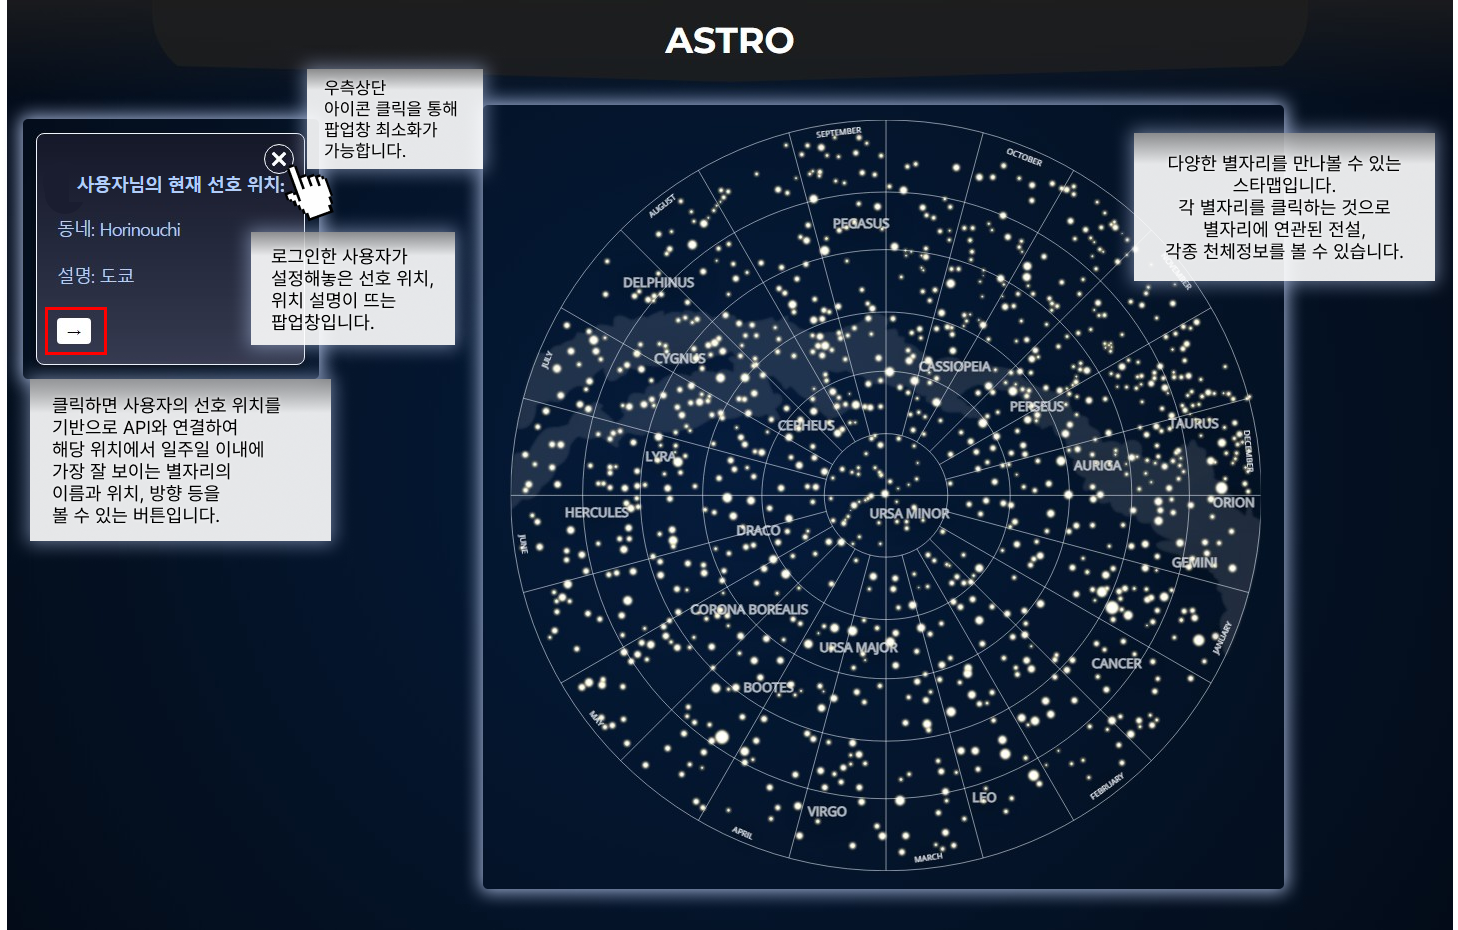
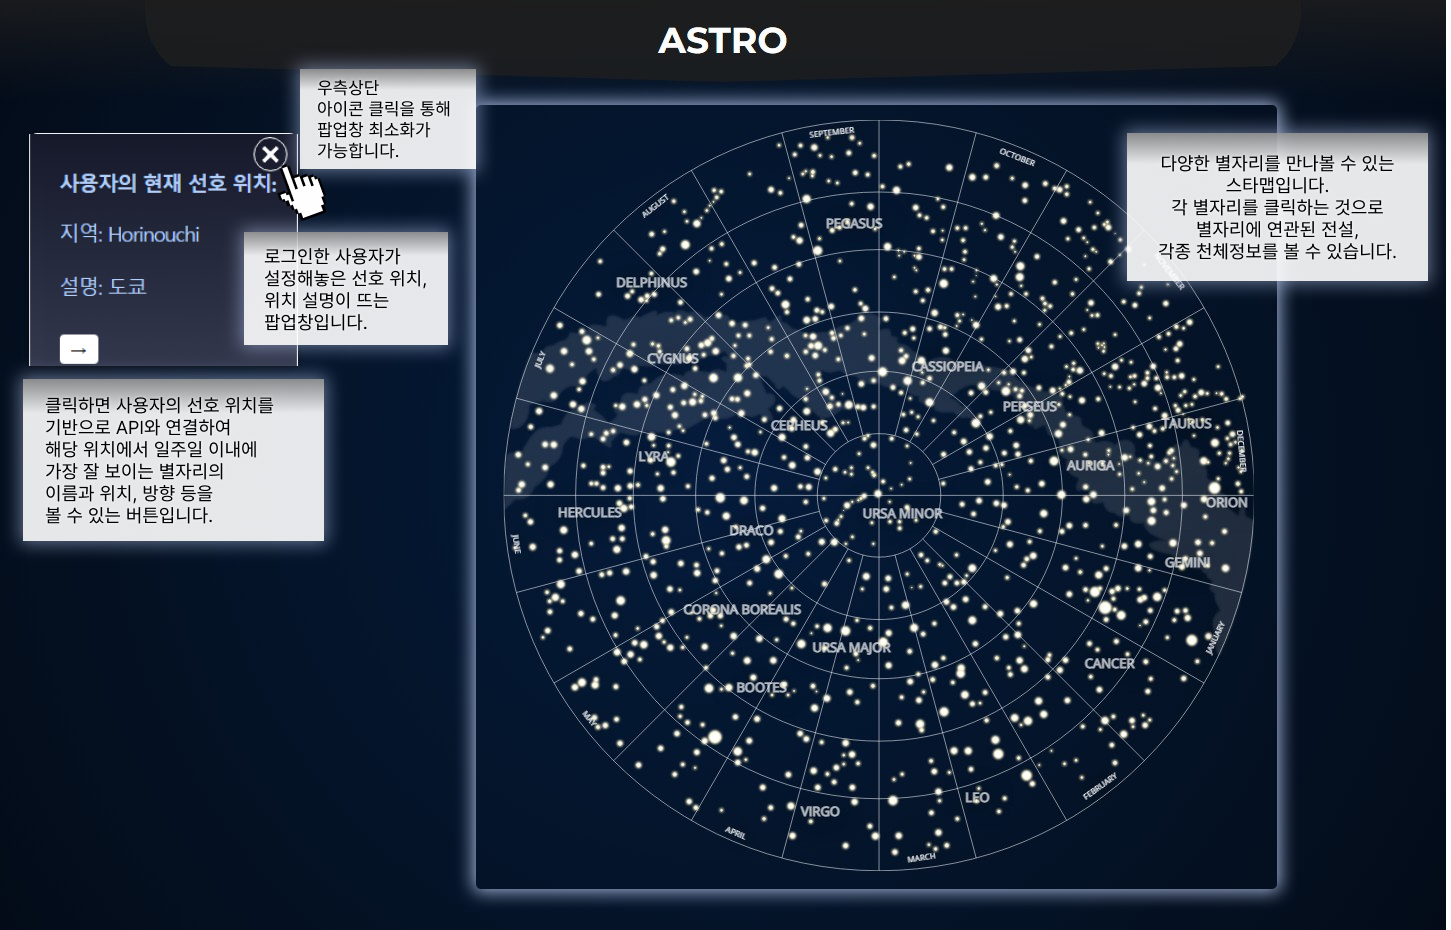
StarMap 페이지 설명(도움말아이콘) 추가

diff --git a/starinfo-app/src/components/StarMap/HelpIcon.jsx b/starinfo-app/src/components/StarMap/HelpIcon.jsx
@@ -1,17 +1,89 @@
-import React from 'react';
+import React, { useState, useEffect } from 'react';
 import './css/HelpIcon.css';
 import questionMarkIcon from '../layout/asset/question_mark_icon.png';
+import introImage1 from '../layout/asset/StarMap_Intro_1.png';
+import introImage2 from '../layout/asset/StarMap_Intro_2.png';
 
-const HelpIcon = ({ onClick }) => {
+const HelpIcon = () => {
+    const [showIntro, setShowIntro] = useState(false); // Intro 이미지 표시 상태
+    const [currentImageIndex, setCurrentImageIndex] = useState(0); // 현재 표시 중인 이미지의 인덱스
+
+    const images = [introImage1, introImage2]; // 이미지 배열
+
+    const handleHelpClick = () => {
+        setShowIntro(true); // 도움말 아이콘 클릭 시 Intro 이미지 표시
+    };
+
+    const handleCloseIntro = () => {
+        setShowIntro(false); // Intro 이미지 닫기
+    };
+
+    const handleNextImage = (event) => {
+        if (event) event.stopPropagation(); // 이벤트 버블링 방지
+        setCurrentImageIndex((prevIndex) => (prevIndex + 1) % images.length); // 다음 이미지로 전환
+    };
+
+    const handlePrevImage = (event) => {
+        if (event) event.stopPropagation(); // 이벤트 버블링 방지
+        setCurrentImageIndex(
+            (prevIndex) => (prevIndex - 1 + images.length) % images.length // 이전 이미지로 전환
+        );
+    };
+
+    useEffect(() => {
+        const handleKeyDown = (event) => {
+            if (showIntro) {
+                if (event.key === 'ArrowRight') {
+                    handleNextImage();
+                } else if (event.key === 'ArrowLeft') {
+                    handlePrevImage();
+                }
+            }
+        };
+
+        // 키보드 이벤트 리스너 추가
+        window.addEventListener('keydown', handleKeyDown);
+
+        // 컴포넌트 언마운트 시 리스너 제거
+        return () => {
+            window.removeEventListener('keydown', handleKeyDown);
+        };
+    }, [showIntro]); // `showIntro` 상태 변경 시 이벤트 리스너 등록/제거
+
     return (
-        <div className="help-icon-container" onClick={onClick}
-        title="페이지 도움말">
-            <img
-                src={questionMarkIcon}
-                alt="Help Icon"
-                className="help-icon-image"
-            />
-        </div>
+        <>
+            {/* 도움말 아이콘 */}
+            <div
+                className="help-icon-container"
+                onClick={handleHelpClick}
+                title="페이지 도움말"
+            >
+                <img
+                    src={questionMarkIcon}
+                    alt="Help Icon"
+                    className="help-icon-image"
+                />
+            </div>
+
+            {/* 도움말 이미지 오버레이 */}
+            {showIntro && (
+                <div className="intro-overlay" onClick={handleCloseIntro}>
+                    <div className="intro-container">
+                        <button className="arrow prev" onClick={handlePrevImage}>
+                            &#8592; {/* 이전 화살표 */}
+                        </button>
+                        <img
+                            src={images[currentImageIndex]}
+                            alt={`Intro Image ${currentImageIndex + 1}`}
+                            className="intro-image"
+                        />
+                        <button className="arrow next" onClick={handleNextImage}>
+                            &#8594; {/* 다음 화살표 */}
+                        </button>
+                    </div>
+                </div>
+            )}
+        </>
     );
 };
 

diff --git a/starinfo-app/src/components/StarMap/css/HelpIcon.css b/starinfo-app/src/components/StarMap/css/HelpIcon.css
@@ -1,6 +1,7 @@
+/* HelpIcon의 기존 스타일 */
 .help-icon-container {
     position: absolute;
-    top: 80px; /* Adjusted to be below the header */
+    top: 80px;
     right: 20px;
     width: 40px;
     height: 40px;
@@ -21,6 +22,69 @@
 }
 
 .help-icon-image {
-    width: 60%; /* Scale the icon size within the circle */
+    width: 60%;
     height: auto;
+}
+
+/* Intro 이미지 오버레이 */
+.intro-overlay {
+    position: fixed;
+    top: 0;
+    left: 0;
+    width: 100%;
+    height: 100%;
+    background-color: rgba(0, 0, 0, 0.7); /* 어두운 반투명 배경 */
+    display: flex;
+    justify-content: center;
+    align-items: center;
+    z-index: 10000; /* 최상단 */
+}
+
+/* Intro 이미지 컨테이너 */
+.intro-container {
+    position: relative;
+    box-shadow: 0px 8px 20px rgba(0, 0, 0, 0.2); /* 그림자 효과 */
+    border-radius: 10px; /* 부드러운 모서리 */
+    overflow: hidden; /* 이미지 크기를 컨테이너에 맞춤 */
+}
+
+/* Intro 이미지 */
+.intro-image {
+    max-width: 75%;
+    max-height: 75%;
+    display: block;
+    margin: auto;
+    border-radius: 8px; /* 이미지 모서리 부드럽게 */
+    box-shadow: 0 4px 20px rgba(255, 255, 255, 0.2), 0 0 30px rgba(255, 255, 255, 0.4);
+    transition: opacity 0.3s ease-in-out; /* 부드러운 전환 효과 */
+    cursor: pointer; /* 클릭 가능 */
+
+}
+
+/* 화살표 버튼 스타일 */
+.arrow {
+    position: absolute;
+    top: 50%;
+    transform: translateY(-50%);
+    background: none;
+    border: none;
+    color: white;
+    font-size: 3rem;
+    font-weight: bold;
+    cursor: pointer;
+    z-index: 10;
+    padding: 0 10px;
+    text-shadow: 0px 4px 6px rgba(0, 0, 0, 0.5);
+}
+
+.arrow:hover {
+    color: #ccc;
+}
+
+.prev {
+    left: 5%;
+}
+
+.next {
+    right: 5%;
 }

diff --git a/starinfo-app/src/components/StarMap/UserLocationButton.jsx b/starinfo-app/src/components/StarMap/UserLocationButton.jsx
@@ -66,7 +66,7 @@ function UserLocationButton({constellationData}) {
                     title="클릭하면 팝업창이 최소화됩니다."
                 />
                 <p className="user-info">
-                    <strong>{user?.nickname || '사용자'}</strong>님의 현재 선호 위치:
+                    <strong>{user?.nickname || '사용자'}</strong>의 현재 선호 위치:
                 </p>
                 <div className="location-info">
                     <p>지역: {cityName || '정보 없음'}</p>
